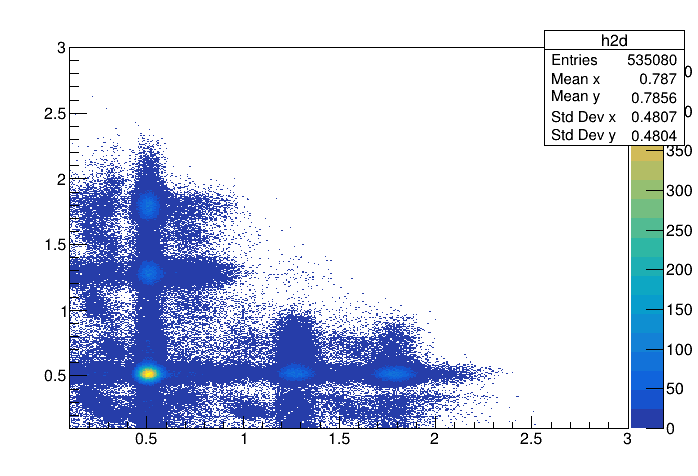
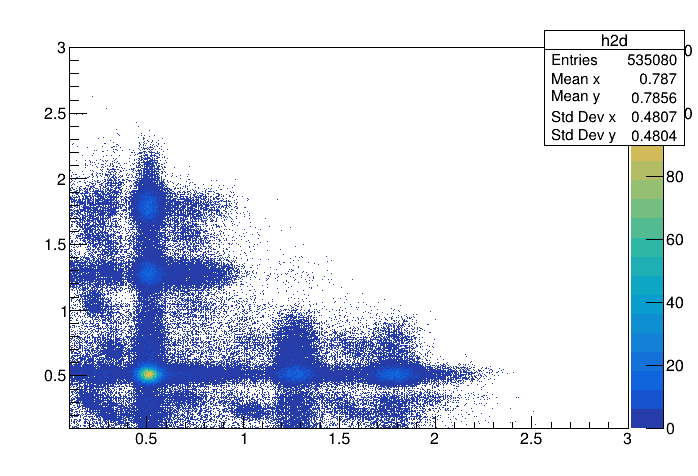
Changed figures

diff --git a/ROOT_macros/histogram.C b/ROOT_macros/histogram.C
@@ -100,7 +100,7 @@ void histogram()
 
 
     TCanvas *c3 = new TCanvas();
-    TH2D *h2d = new TH2D("h2d", "", 400, 0.1,3,400,0.1, 3);
+    TH2D *h2d = new TH2D("h2d", "", 900, 0.1,3,900,0.1, 3);
     tree_gaus_conv -> Draw("Edep_gaus_A:Edep_gaus_B>>h2d", "","colz");
     c3 -> Draw();
     c3 -> SaveAs("../docs/assets/images/AB_gaus.png");
@@ -108,7 +108,7 @@ void histogram()
 
     TCanvas *c4 = new TCanvas();
     TH2D *h2d2 = new TH2D("h2d2", "", 1000, 0.1,3,1000,0.1, 3);
-    Edep -> Draw("fEdep_A:fEdep_B>>h2d2", "","colz");
+    Edep -> Draw("fEdep_A:fEdep_B>>h2d2", "","");
     c4 -> Draw();
     c4 -> SaveAs("../docs/assets/images/AB.png");
 
